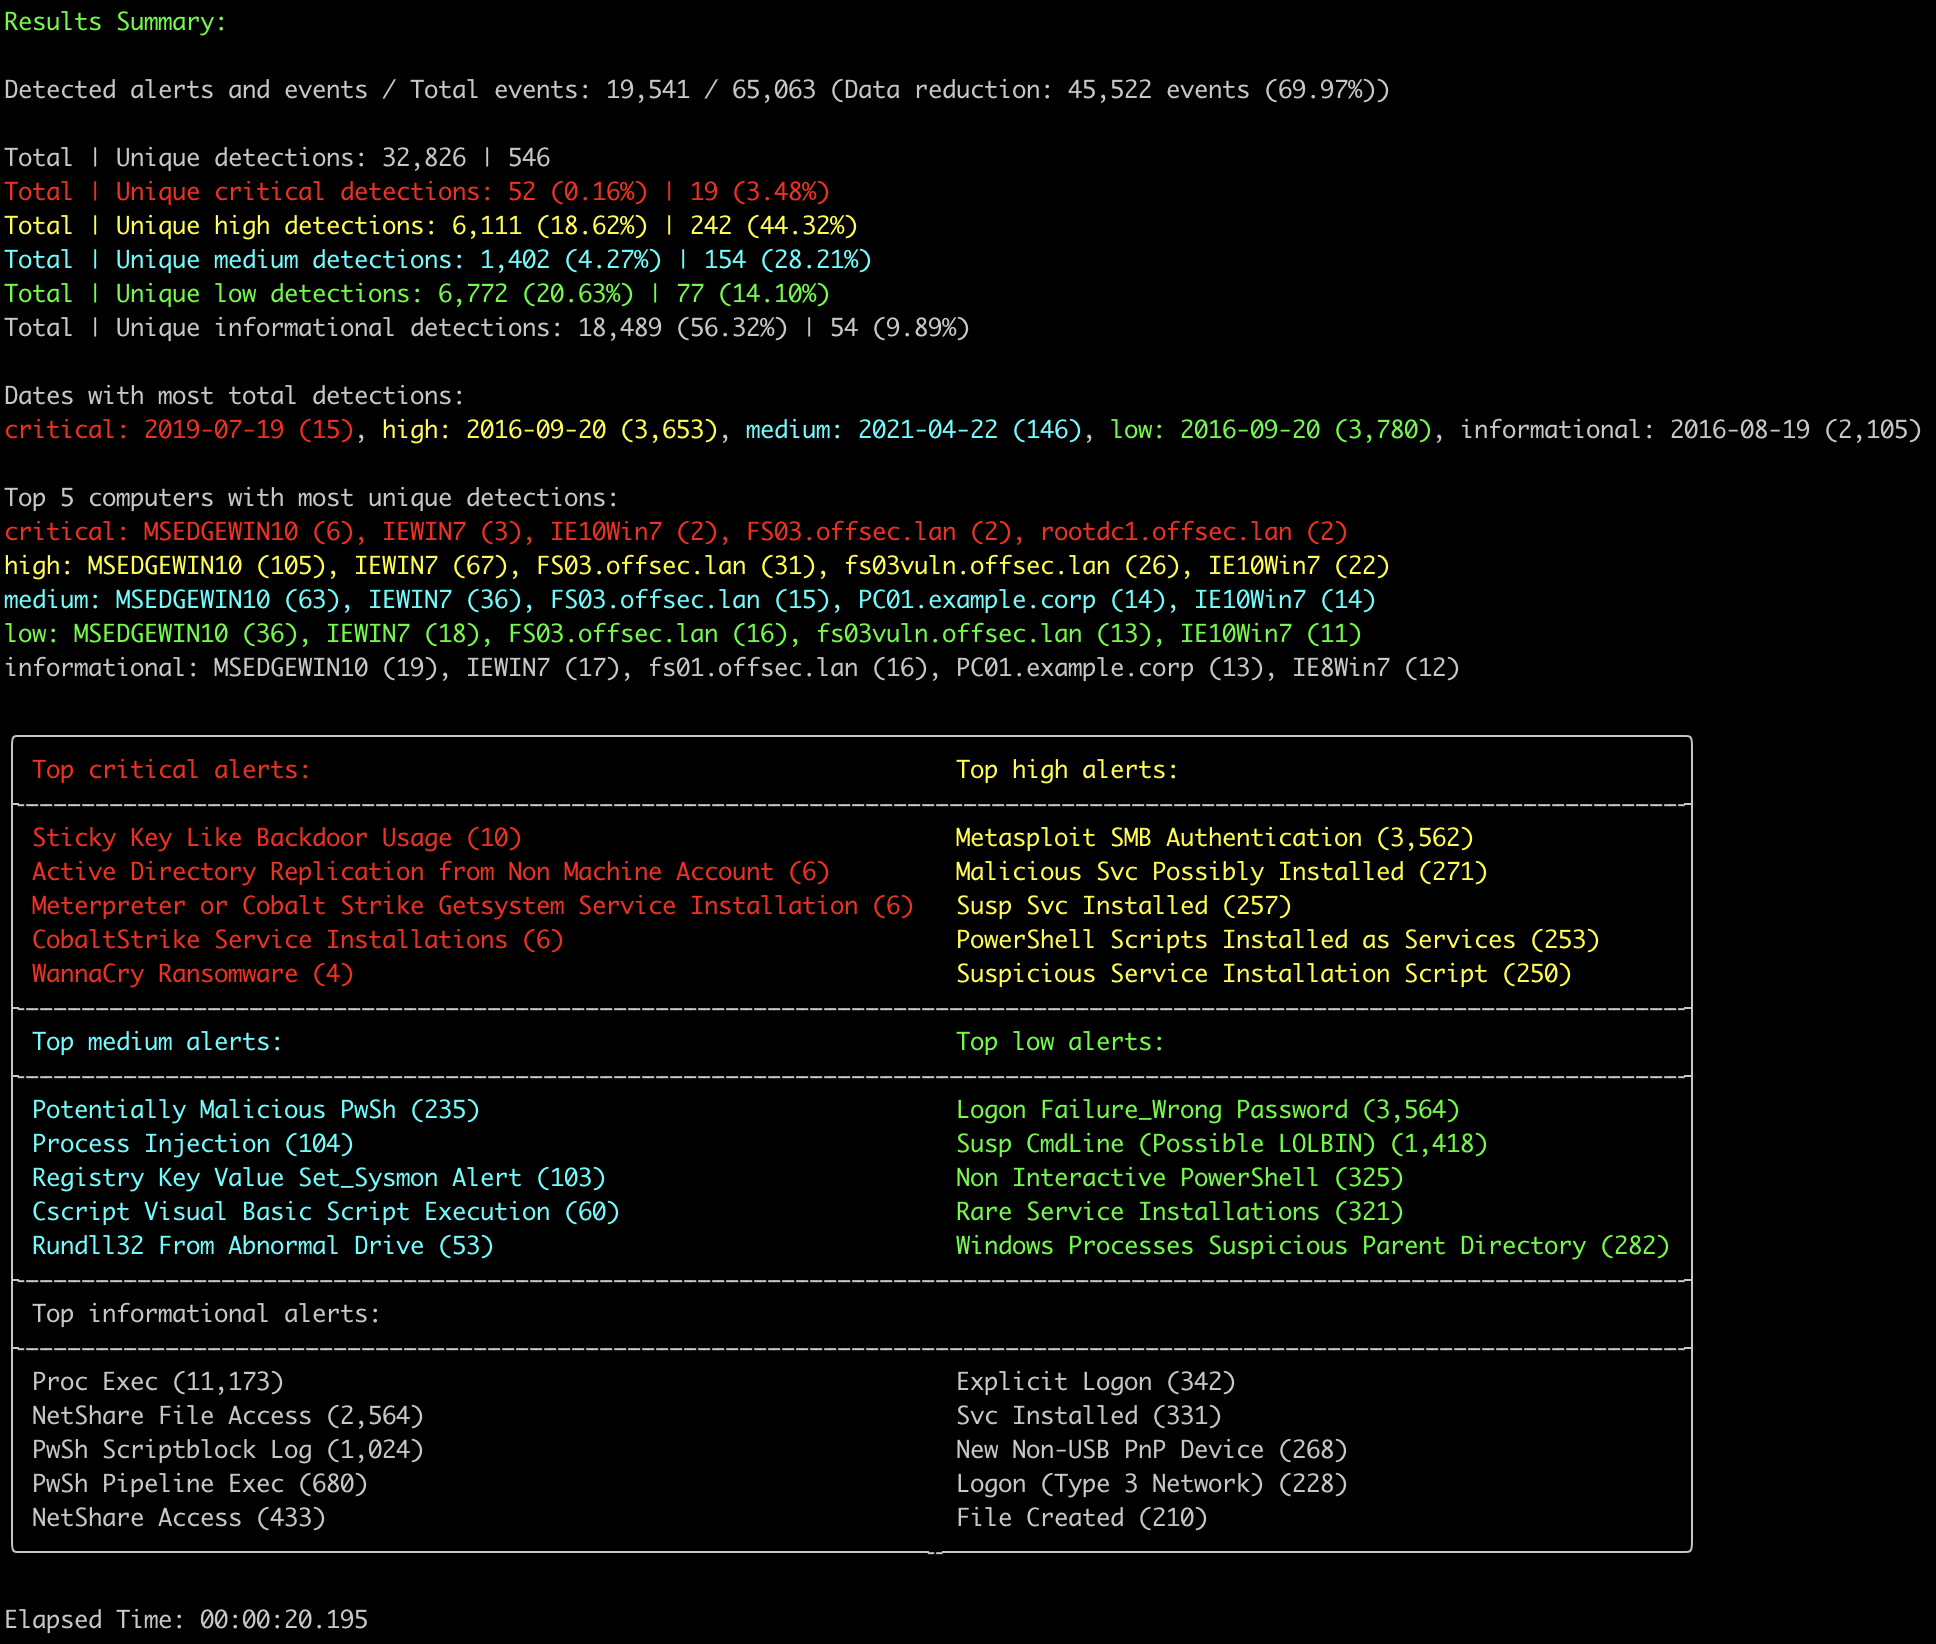
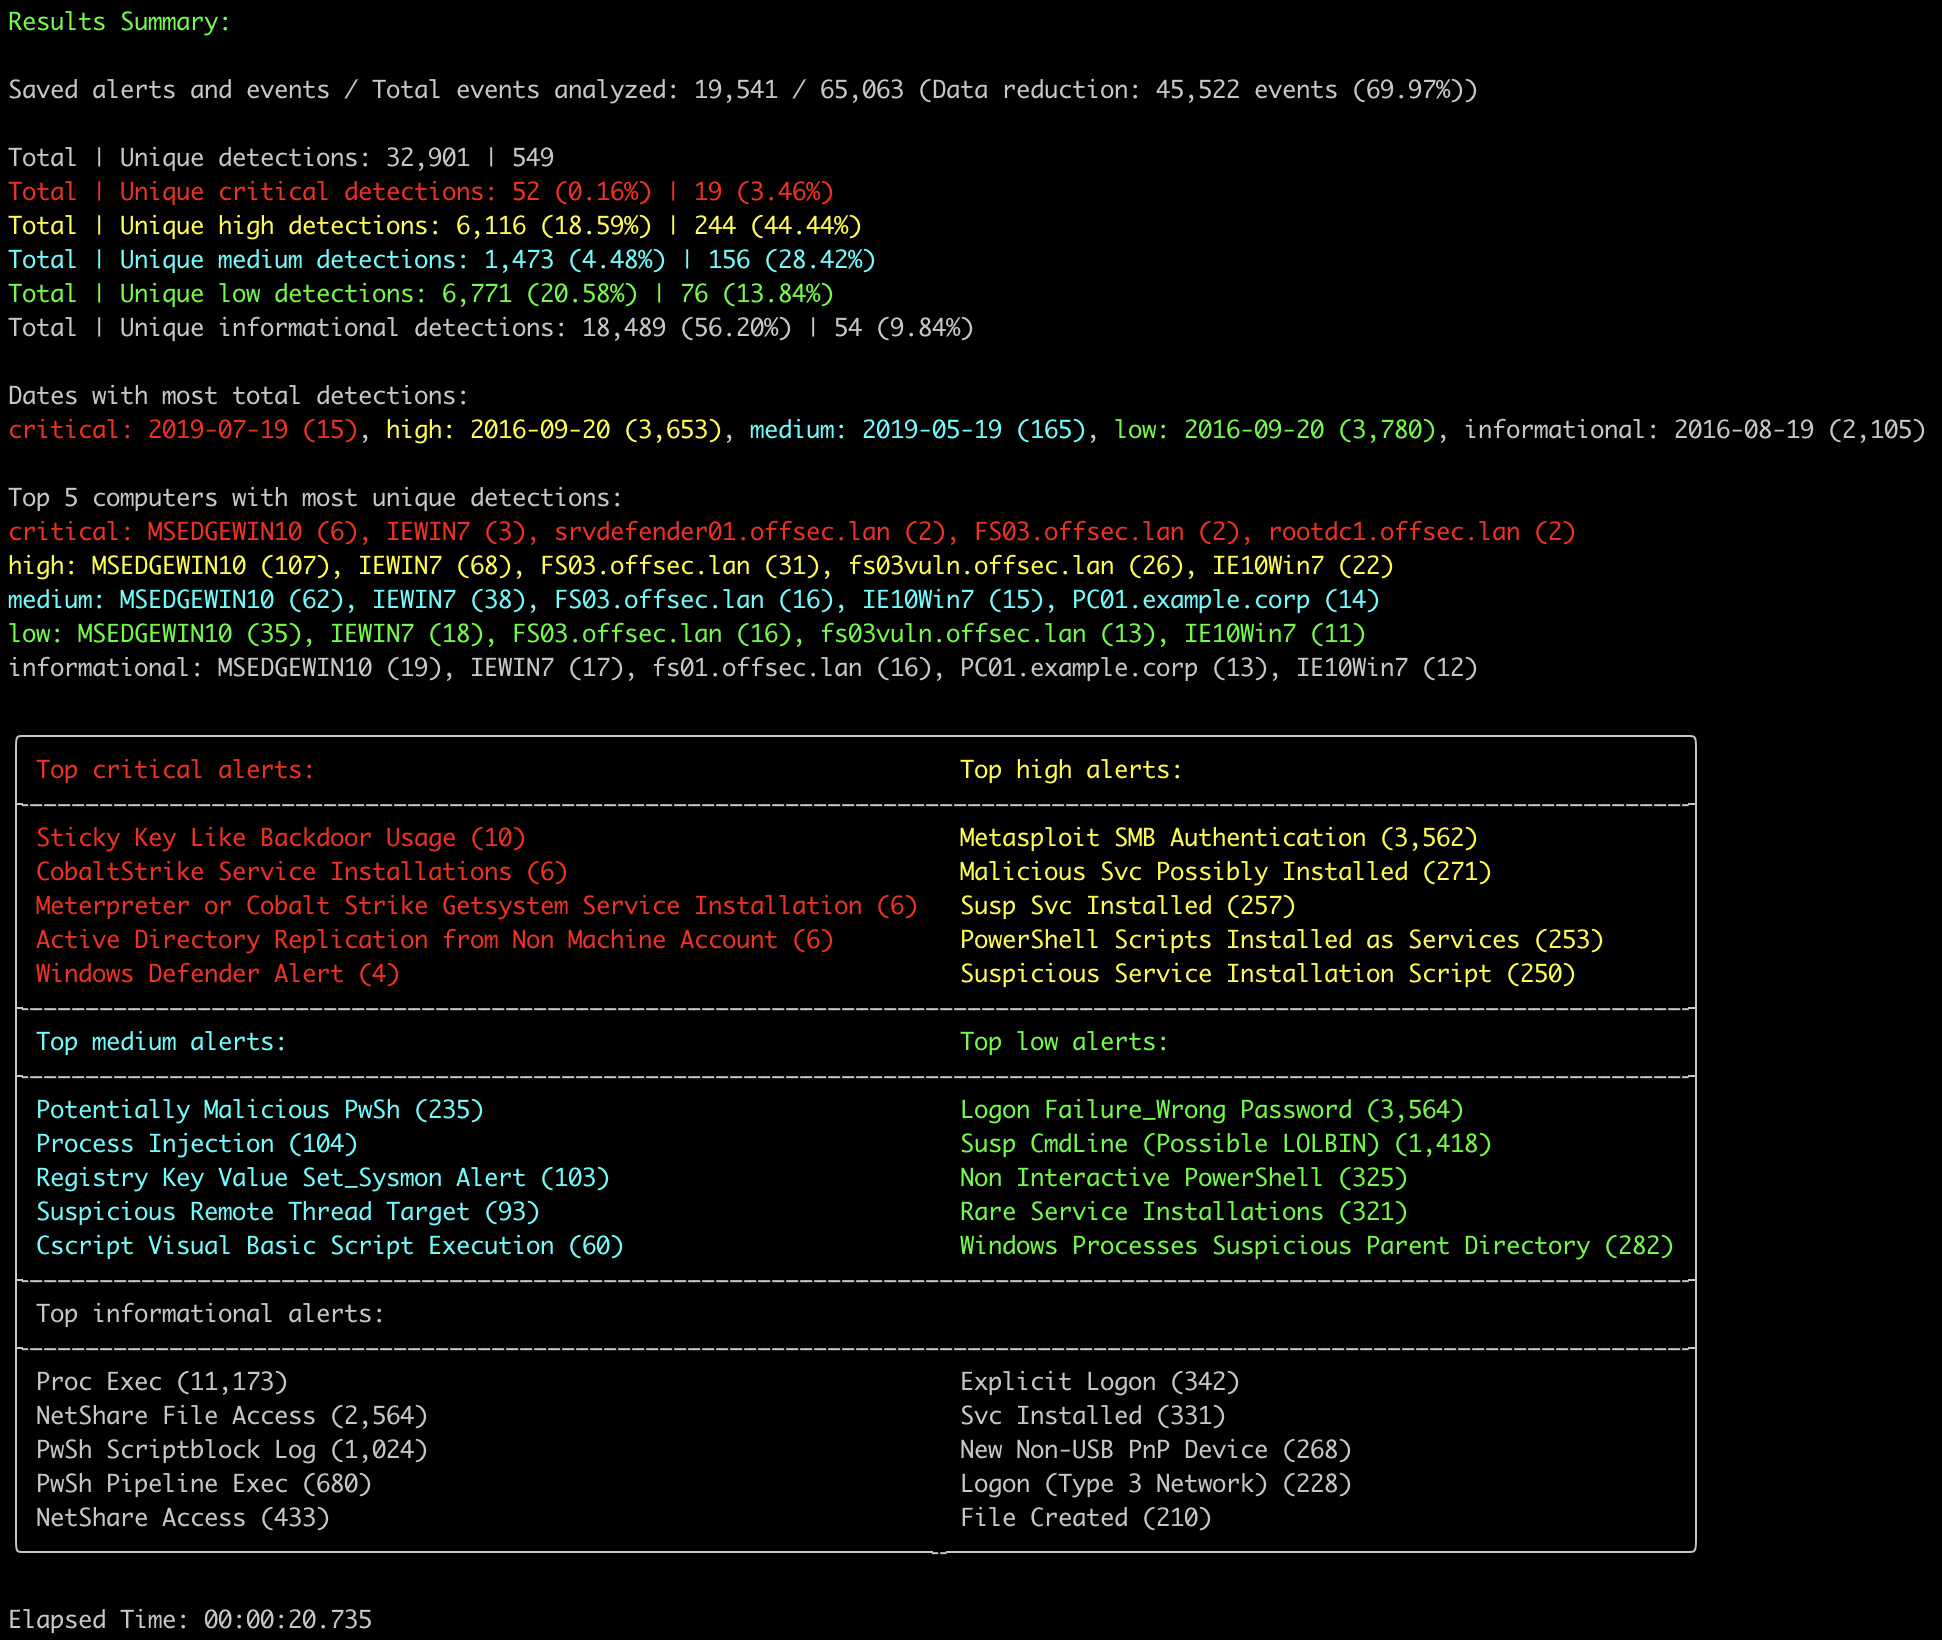
update saved events wording

diff --git a/src/afterfact.rs b/src/afterfact.rs
@@ -382,7 +382,7 @@ fn emit_csv<W: std::io::Write>(
             &disp_wtr,
             get_writable_color(None),
             &format!(
-                "Detected alerts and events / Total events: {} / {} (Data reduction: {} events ({:.2}%))",
+                "Saved alerts and events / Total events analyzed: {} / {} (Data reduction: {} events ({:.2}%))",
                 (all_record_cnt - reducted_record_cnt).to_formatted_string(&Locale::en),
                 all_record_cnt.to_formatted_string(&Locale::en),
                 reducted_record_cnt.to_formatted_string(&Locale::en),
